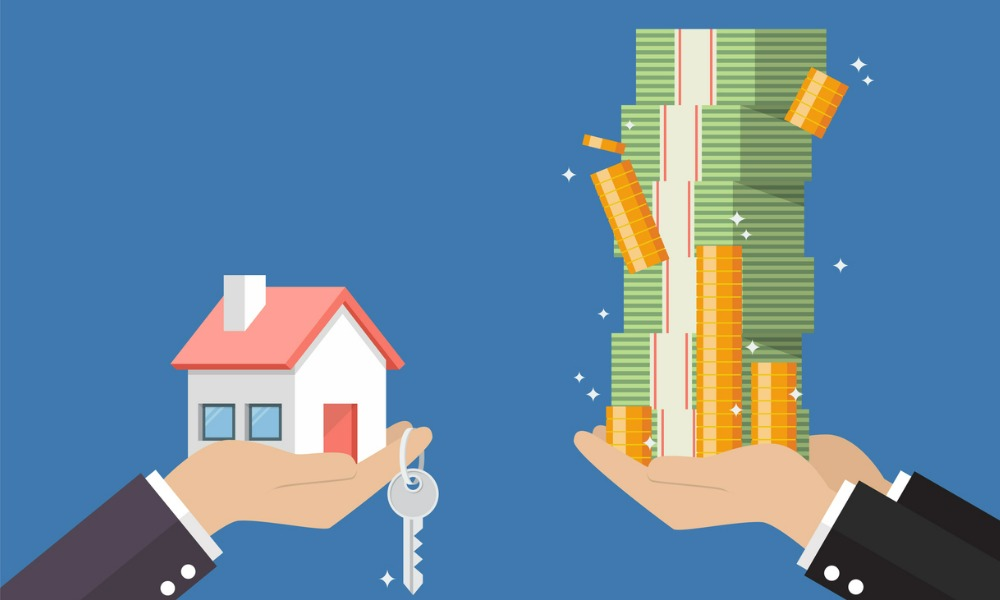
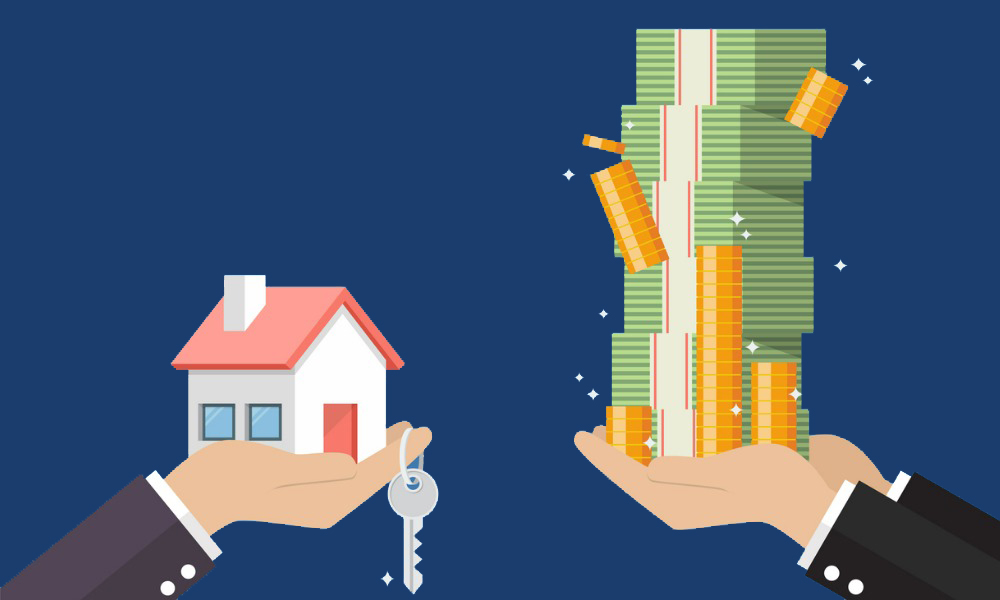
Changed image colors

diff --git a/index.html b/index.html
@@ -209,9 +209,9 @@
                         <img class="mx-auto rounded-circle" src="assets/img/misc/headshot.jpg" alt="..." />
                         <h4>Matthew Wong</h4>
                         <p class="text-muted">Realtor</p>
-                        <a class="btn btn-dark btn-social mx-2" href="#!"><i class="fab fa-twitter"></i></a>
-                        <a class="btn btn-dark btn-social mx-2" href="#!"><i class="fab fa-facebook-f"></i></a>
-                        <a class="btn btn-dark btn-social mx-2" href="#!"><i class="fab fa-linkedin-in"></i></a>
+                        <a class="btn btn-dark btn-social mx-2" href="https://www.instagram.com/mattwongrealtor" target="_blank"><i class="fab fa-instagram"></i></a>
+                        <a class="btn btn-dark btn-social mx-2" href="https://www.facebook.com/MattwongSGVRealtor" target="_blank"><i class="fab fa-facebook-f"></i></a>
+                        <a class="btn btn-dark btn-social mx-2" href="https://www.yelp.com/biz/matthew-j-wong-realtor-exp-realty-covina-2" target="_blank"><i class="fab fa-yelp"></i></a>
                     </div>
                 </div>
                 <div class="col-lg-4">
@@ -307,9 +307,9 @@
                 <div class="col-lg-6 text-lg-start">Copyright &copy; <var id="year" style="font-style:normal;"></var>
                     Realtor Matthew J Wong - EXP Realty of California Inc.</div>
                 <div class="col-lg-6 my-3 my-lg-0">
-                    <a class="btn btn-dark btn-social mx-2" href="#!"><i class="fab fa-twitter"></i></a>
-                    <a class="btn btn-dark btn-social mx-2" href="#!"><i class="fab fa-facebook-f"></i></a>
-                    <a class="btn btn-dark btn-social mx-2" href="#!"><i class="fab fa-linkedin-in"></i></a>
+                    <a class="btn btn-dark btn-social mx-2" href="https://www.instagram.com/mattwongrealtor" target="_blank"><i class="fab fa-instagram"></i></a>
+                    <a class="btn btn-dark btn-social mx-2" href="https://www.facebook.com/MattwongSGVRealtor" target="_blank"><i class="fab fa-facebook-f"></i></a>
+                    <a class="btn btn-dark btn-social mx-2" href="https://www.yelp.com/biz/matthew-j-wong-realtor-exp-realty-covina-2" target="_blank"><i class="fab fa-yelp"></i></a>
                 </div>
             </div>
         </div>
